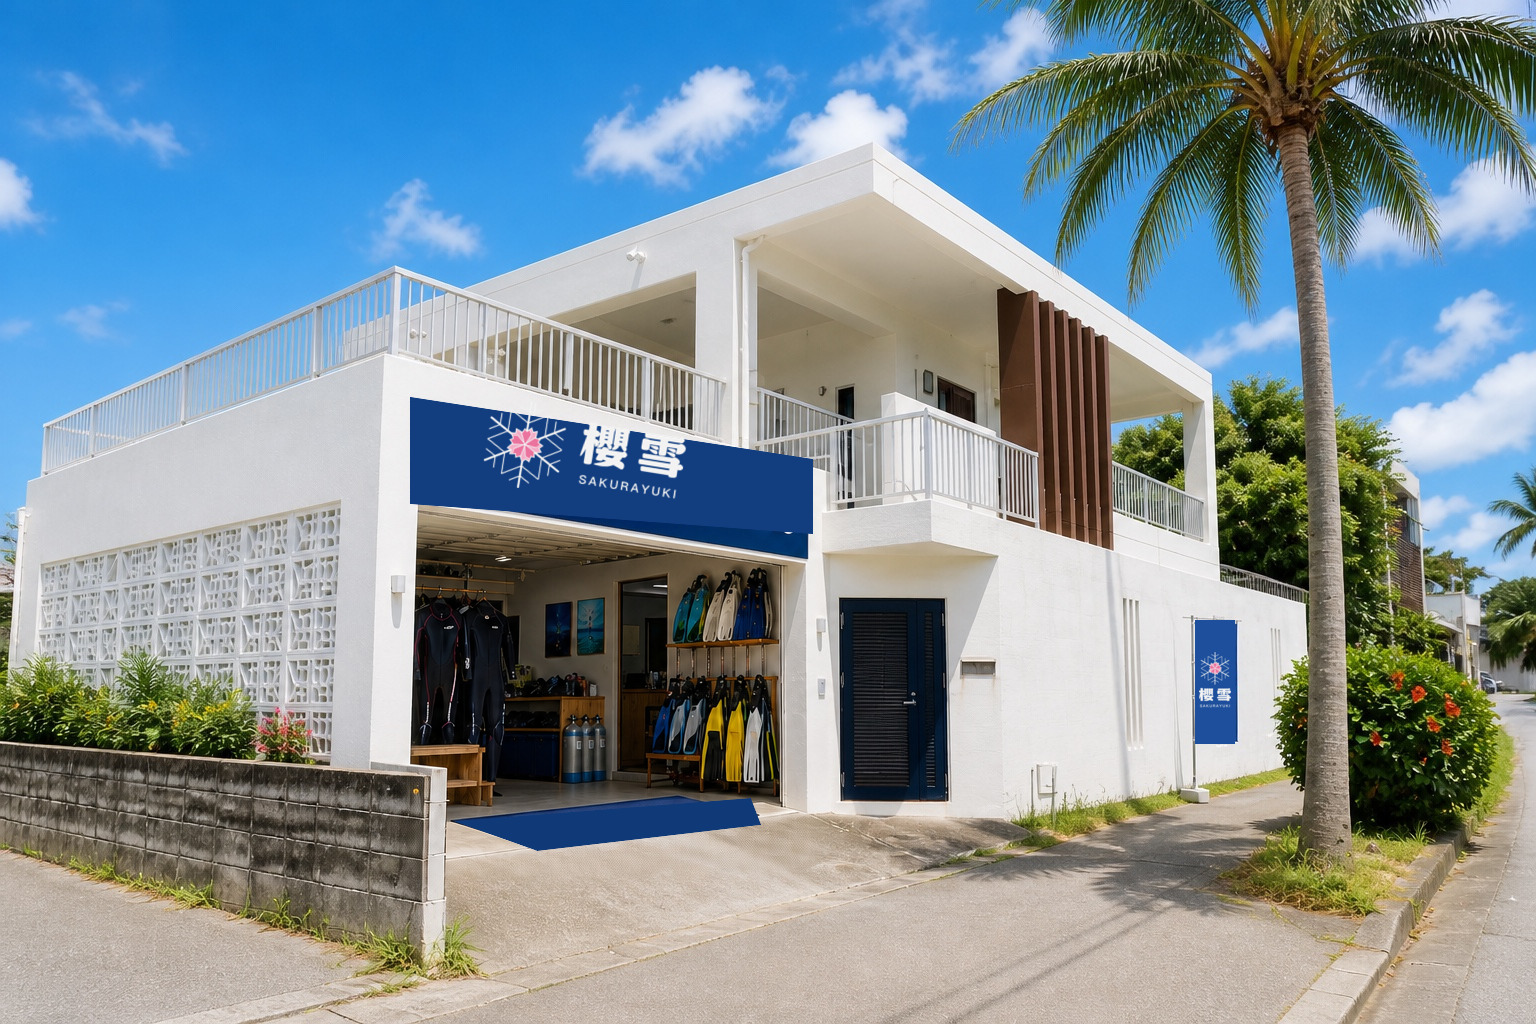
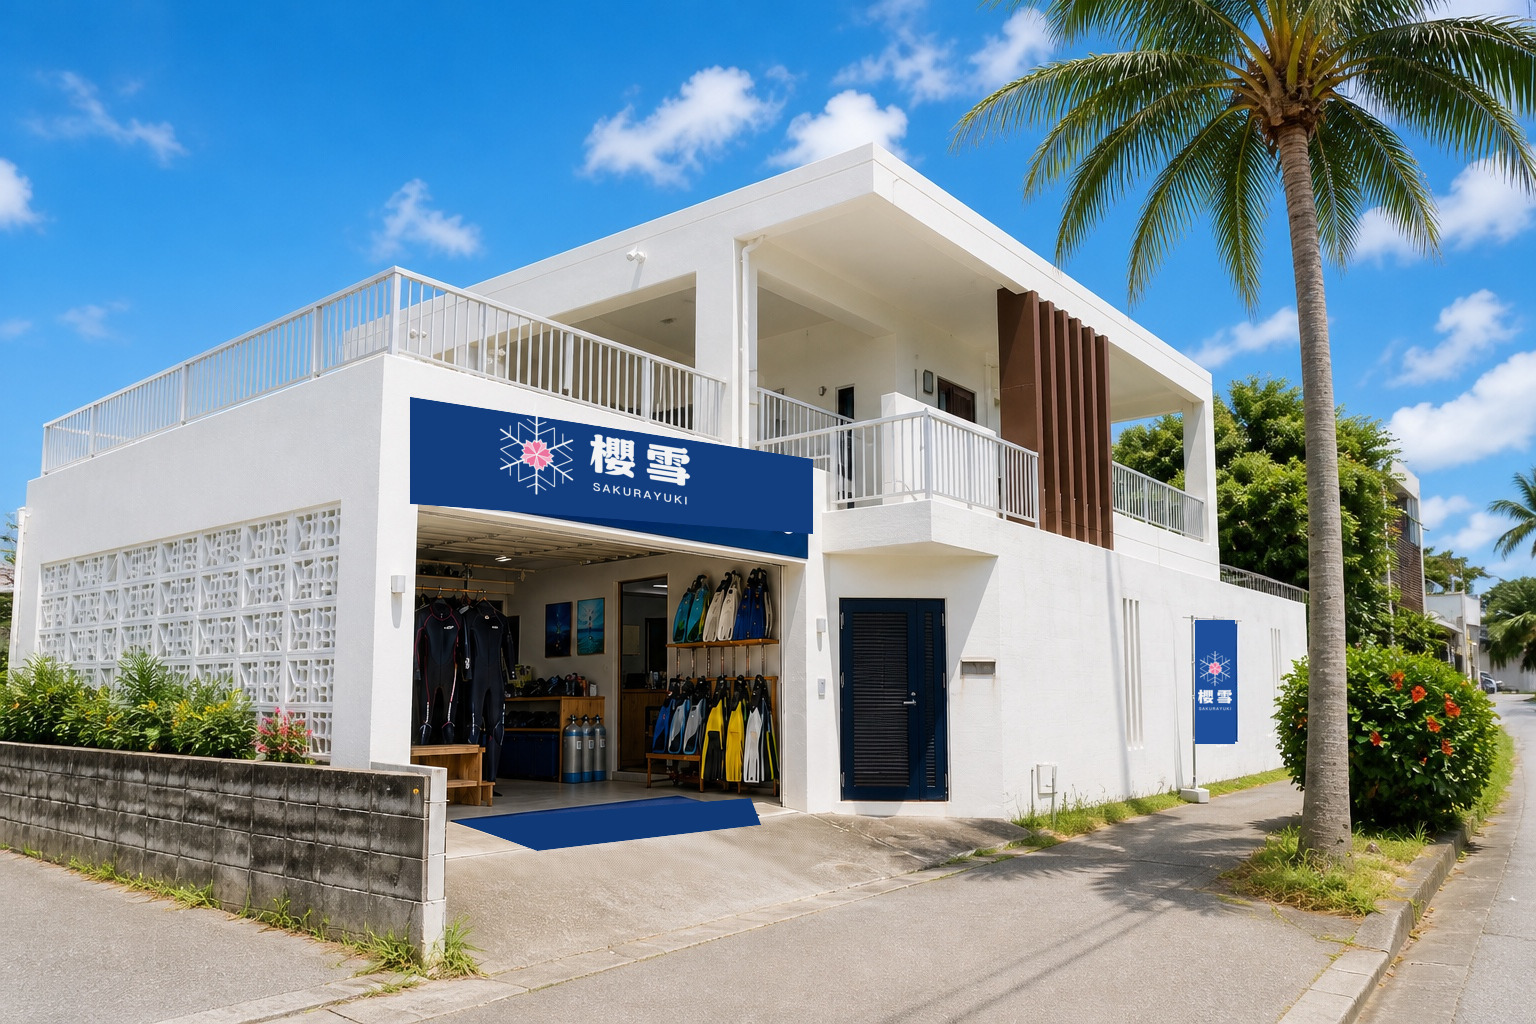
Correct Okinawa signage and booking action

Changed region(s): [[0.3125, 0.4062, 0.4688, 0.5], [0.7812, 0.625, 0.8125, 0.6875]]

diff --git a/櫻雪旅行社_潛水服務.html b/櫻雪旅行社_潛水服務.html
@@ -481,7 +481,7 @@
     <li><a href="櫻雪游泳池.html">櫻雪游泳池</a></li>
     <li><a href="https://ifgto0923-design.github.io/sy-dive/%E6%B2%96%E7%B9%A9%E6%BD%9B%E6%B0%B4%E5%B0%8E%E8%A6%BD.html">沖繩導覽</a></li>
     <li><a href="#faq">FAQ</a></li>
-    <li><a href="https://lin.ee/U08gDqx" class="nav-cta" target="_blank" rel="noopener noreferrer">預約</a></li>
+    <li><a href="https://lin.ee/U08gDqx" class="nav-cta" target="_blank" rel="noopener noreferrer" onclick="window.open(this.href,'_blank','noopener,noreferrer');return false;">預約</a></li>
   </ul>
 </nav>
 
@@ -542,7 +542,7 @@
       </div>
     </div>
     <div class="loc-card reveal">
-      <img src="sy-dive-images/loc-okinawa.jpg?v=20260828-entrance-v4" alt="沖繩青之洞窟" style="width:100%;height:180px;object-fit:cover;" onerror="this.style.display='none'">
+      <img src="sy-dive-images/loc-okinawa.jpg?v=20260828-entrance-v5" alt="沖繩青之洞窟" style="width:100%;height:180px;object-fit:cover;" onerror="this.style.display='none'">
       <div class="loc-header">
         <div><span class="loc-badge badge-oki">開放水域 · 日本 · 沖繩青洞</span></div>
       </div>
@@ -564,7 +564,7 @@
   <p class="section-sub">從白色建築、棕櫚樹到海風，這裡是櫻雪在沖繩的集合點，也是出發前整理裝備與認識海況的地方。</p>
   <div class="architecture-grid">
     <figure class="architecture-card featured">
-      <img src="sy-dive-images/okinawa-aerial.jpg?v=20260828-logo-v2" alt="沖繩櫻雪潛水基地空拍外觀" loading="lazy">
+      <img src="sy-dive-images/okinawa-aerial.jpg?v=20260828-logo-v3" alt="沖繩櫻雪潛水基地空拍外觀" loading="lazy">
       <figcaption class="architecture-caption"><strong>Okinawa Base</strong><span>從空拍看見白色店面與海島街景</span></figcaption>
     </figure>
     <figure class="architecture-card">
@@ -572,7 +572,7 @@
       <figcaption class="architecture-caption"><strong>Storefront</strong><span>裝備展示與集合入口</span></figcaption>
     </figure>
     <figure class="architecture-card">
-      <img src="sy-dive-images/loc-okinawa.jpg?v=20260828-entrance-v4" alt="沖繩櫻雪潛水基地外觀" loading="lazy">
+      <img src="sy-dive-images/loc-okinawa.jpg?v=20260828-entrance-v5" alt="沖繩櫻雪潛水基地外觀" loading="lazy">
       <figcaption class="architecture-caption"><strong>Island Light</strong><span>白色外牆、木格柵與棕櫚樹</span></figcaption>
     </figure>
   </div>
